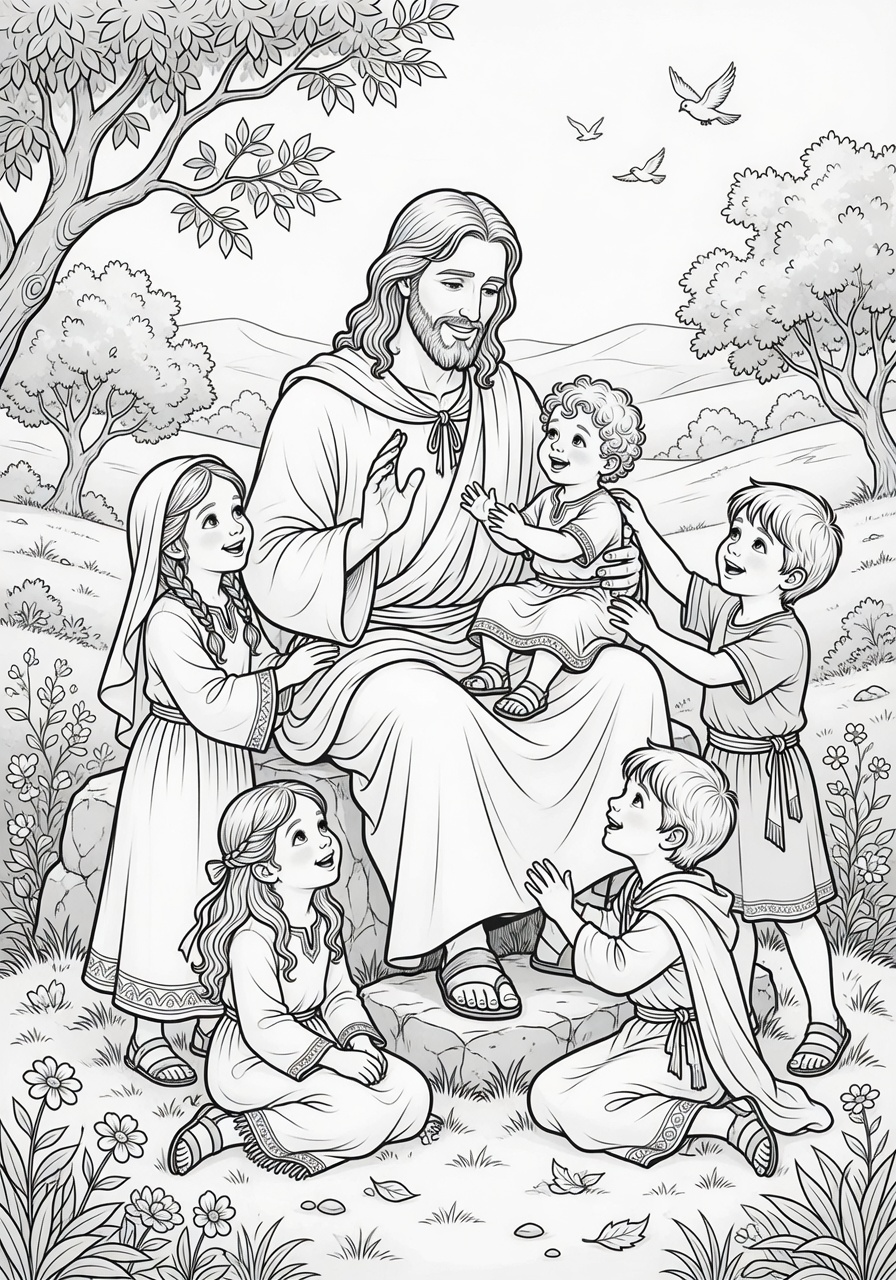
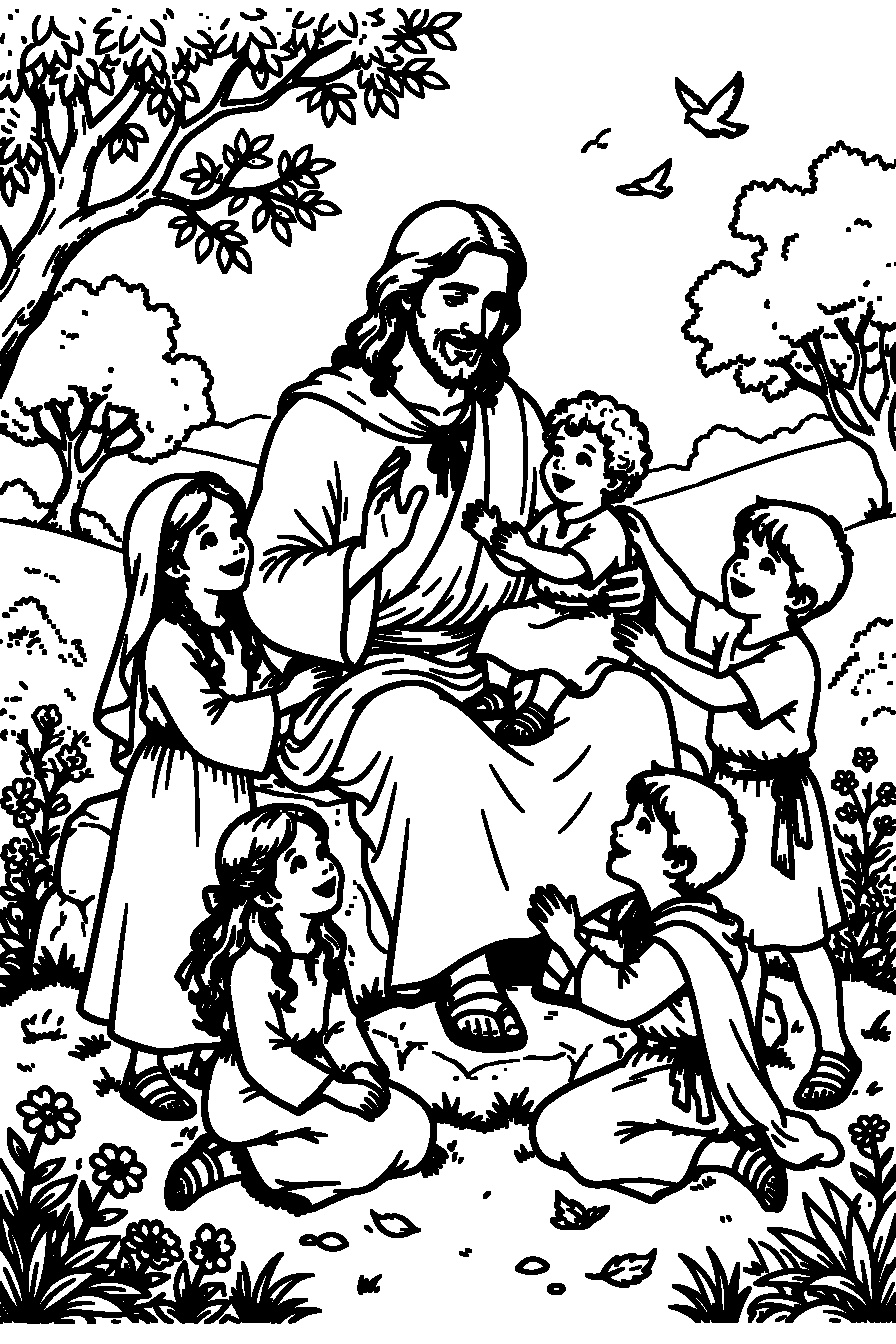
fix(color): match Jesus & the children to the other coloring books (#497)
The page was still a thin portrait drawing. It is now bold black
outlines on white paper, closed shapes, same cartoon coloring-book
ink as David and Baby Moses.

diff --git a/test-site.js b/test-site.js
@@ -202,7 +202,7 @@ const pages = [
   { path: '/bible-study.html', name: 'Bible studies alias', mustInclude: ['Bible studies moved', 'noindex', 'location.replace'] },
   { path: '/pastor-toolkit.html', name: 'Pastor Toolkit', mustInclude: ['Pastor'] },
   { path: '/team-toolkit.html', name: 'Team Toolkit', mustInclude: ['Team', 'Ready-to-use packs'] },
-  { path: '/coloring.html', name: 'Kids Coloring', mustInclude: ['Hear the story', 'The story you hear', 'coloring-listen.json', 'Coloring', 'Kids', 'tdb-cat-parent-tip', 'tdb-cat-root', 'data-tdb-scene-assets', 'Watch My Story', 'Print storyboard', 'color-and-tell.css?v=20260906color1', 'color-and-tell.js?v=20260906color1', '/vendor/jl-coloringBook.js', 'kids-history-heading', 'Earlier on this device', 'script.js', 'kids-gentle-shepherd.js?v=20260905quiet1', 'at least one scene', 'Watch My Story', '/coloring-pages/jesus-children-fill.png', 'Pick a picture. Color it. Save it.'], mustNotInclude: ['Bible Story Library', 'Bible Loop Library', 'Show paint tools for every story'] },
+  { path: '/coloring.html', name: 'Kids Coloring', mustInclude: ['Hear the story', 'The story you hear', 'coloring-listen.json', 'Coloring', 'Kids', 'tdb-cat-parent-tip', 'tdb-cat-root', 'data-tdb-scene-assets', 'Watch My Story', 'Print storyboard', 'color-and-tell.css?v=20260906color1', 'color-and-tell.js?v=20260906art2', '/vendor/jl-coloringBook.js', 'kids-history-heading', 'Earlier on this device', 'script.js', 'kids-gentle-shepherd.js?v=20260905quiet1', 'at least one scene', 'Watch My Story', '/coloring-pages/jesus-children-fill.png', 'Pick a picture. Color it. Save it.'], mustNotInclude: ['Bible Story Library', 'Bible Loop Library', 'Show paint tools for every story'] },
   { path: '/family.html', name: 'Family hub', mustInclude: ['href="/daily-quiet-time"', 'Daily quiet time', 'tdb-porch-verse-widget__hint', 'Same daily KJV as Home', 'id="tdbPorchVerseWidget"', 'Hide for today', 'tdb-porch-verse-widget', 'Read with breakdown', 'For Families', 'family-hub-hero--soar-dawn', 'id="familyPorchPathCross"', 'At the table tonight', 'tdb-porch-path-card__chip-row', 'kids/porch-read-sibling-friction.html', 'kids/porch-read-bedtime-hush.html', 'family-armor-little-ones.html', 'More quiet doors', 'kids/porch-read-soft-answer.html', 'kids/porch-read-do-not-fear.html', 'kids/porch-read-still-waters.html', 'kids/porch-read-mealtime-thankfulness.html', 'kids/porch-read-one-leper-came-back.html', 'kids/porch-read-busy-table.html', 'kids/porch-read-mustard-quiet.html', 'kids/porch-read-when-god-speaks-quietly.html', 'kids/porch-read-when-waiting-feels-long.html', 'kids/porch-read-suffer-little-children.html', 'kids/porch-read-forgiveness-after-fight.html', 'kids/porch-read-when-wrong-feels-loud.html', 'kids/porch-read-when-friendship-costs.html', 'kids/porch-read-narrow-way.html', 'plans.html?plan=parentweary', 'coloring.html">Color one story', 'id="family-hub-hero-heading"', 'id="family-quick-start-verse"', 'family-daily-verse-root', 'tdb-family-print-verse-btn', 'daily-verse-body', 'family-plan-progress-whisper', 'Each plan keeps its own day', 'family-plan-cards', 'id="family-prayer-wall"', 'A quiet place for your family', 'family-armor.html', 'Family Armor &amp; Stories', 'Daily quiet time', 'family-activity-packs.html', 'family-youth-journal.html', 'plans.html?plan=familyworship', 'plans.html?plan=eveninguog', 'Evening in the University', 'evening-university-print.html', 'university-at-the-table-print.html', 'morning-evening-family-print.html', 'one-week-in-the-university-print.html', 'plans.html?plan=psalmscomfortfamily', 'plans.html?plan=beatitudes-kids', 'Beatitudes for Kids', 'plans.html?plan=lordsprayer-kids', 'tdb-plan-lordsprayer-kids-day', 'plans.html?plan=sower', 'Parable of the Sower for Kids', 'plans.html?plan=sower-kids', 'tdb-plan-sower-kids-day', 'Your family has walked', 'Kids play door', 'For the Little Ones', '/little-ones.html', 'Bible Loop Library', 'Bible Story Library', 'ages 3&ndash;4 with a grown-up', 'id="family-kids-plans-guide-heading"', 'How to use Plans with your kids', 'id="family-homeschool-sharing-note"', 'church-sharing-kit.html#csk-homesch', 'church-sharing-kit.html#csk-homesch-tracker', 'Homeschooling or co-op', 'id="family-devotion-rhythm-heading"', 'A simple family devotion rhythm', 'church-sharing-kit.html#csk-family-devotion-expanded', 'The site will remember where we are', 'id="family-year-round-rhythm"', 'id="family-year-round-tools"', 'family-yrt-votm-line', 'Year-round tools', 'year-at-a-glance.html', 'plans.html?plan=summer-seeds', 'church-sharing-kit.html#csk-homeschool-year-round', 'id="family-year-round-memory"', 'id="memory-verses"', 'memory-verses-shell', 'memory-section', 'memory-verses.js', 'yearly-rhythm.html#yr-memory', 'Year-round &amp; Memory Verses', 'church-sharing-kit.html#csk-memory-verse-cards', 'yearly-rhythm.html#yr-print-planners', 'church-sharing-kit.html#csk-print-planners', 'yearly-rhythm.html', 'Year-round rhythm', 'church-sharing-kit.html#csk-memory-verse-activities', 'Gentle memory verse activities', 'memory-verse-activities-print.html', 'tdb-cache-hygiene:', 'family-hub-onpage-nav', '2-minute start', 'Paper when you want it', 'More for school nights'] },
   { path: '/little-ones.html', name: 'For the Little Ones', mustInclude: ['For the little ones', 'One gentle place to land with your little ones', 'Today&rsquo;s verse for little hearts', 'id="little-ones-verse-root"', 'id="little-ones-verse-ref"', 'id="little-ones-verse-text"', 'Read aloud', 'Story &amp; color together', 'Jesus &amp; the children', 'Good Shepherd', 'Print this coloring page', 'Gentle starting places by age', 'Ages 3–4', 'Family Armor lite', 'family-armor-little-ones.html', 'little-ones.js?v=20260415littleones', 'rel="canonical" href="https://todaysdailybattle.com/little-ones.html"', 'little-ones-onpage-nav', 'id="little-ones-more-quiet"'] },
   { path: '/family-armor.html', name: 'Family Armor', mustInclude: ['Family Armor &amp; Stories', 'id="familyArmorStoryFirstPath"', 'family-armor-hero-verse-frame', 'id="family-armor-hero-ref"', 'daily-verse-body', 'whole armour of God', 'Ephesians 6:10', 'family-armor-pieces-grid', 'Praying always', 'Open the Family Armor workspace', '/#armor-builder-btn', 'kids/corner.html', 'family.html', 'curriculum.html', 'family-armor-trust-strip', 'stays on this device', 'family-armor-little-ones.html#fa-littles-morning-reset', 'Morning reset', 'family-armor-little-ones.html#fa-littles-bedtime-prayer', 'Bedtime prayer'] },

diff --git a/coloring.html b/coloring.html
@@ -373,7 +373,7 @@
   <script defer src="/vendor/jl-coloringBook.js?v=20260906fill2"></script>
   <script defer src="/kids/kids-gentle-journey.js?v=20260503goal365"></script>
   <link rel="preload" href="kids/data/coloring-listen.json?v=20260906bless1" as="fetch" crossorigin>
-  <script defer src="kids/color-and-tell.js?v=20260906color1"></script>
+  <script defer src="kids/color-and-tell.js?v=20260906art2"></script>
   <script type="module" src="config.js"></script>
   <script nonce="tdb2025s" defer src="/footer-build-stamp.js?v=20260820polish"></script>
   <script type="module" src="script.js?v=20260906color1" data-cfasync="false"></script>

diff --git a/kids/color-and-tell.js b/kids/color-and-tell.js
@@ -646,7 +646,7 @@
   // TDB_SCENE_ART_END
 
   /** Returns the best available line-art src for a scene (raster preferred). */
-  var ART_CACHE = '20260906color1';
+  var ART_CACHE = '20260906art2';
   function bestSceneSrc(scene) {
     if (!scene || !scene.src) return '';
     var src = (TDB_SCENE_ART && TDB_SCENE_ART[scene.src]) || scene.src;
